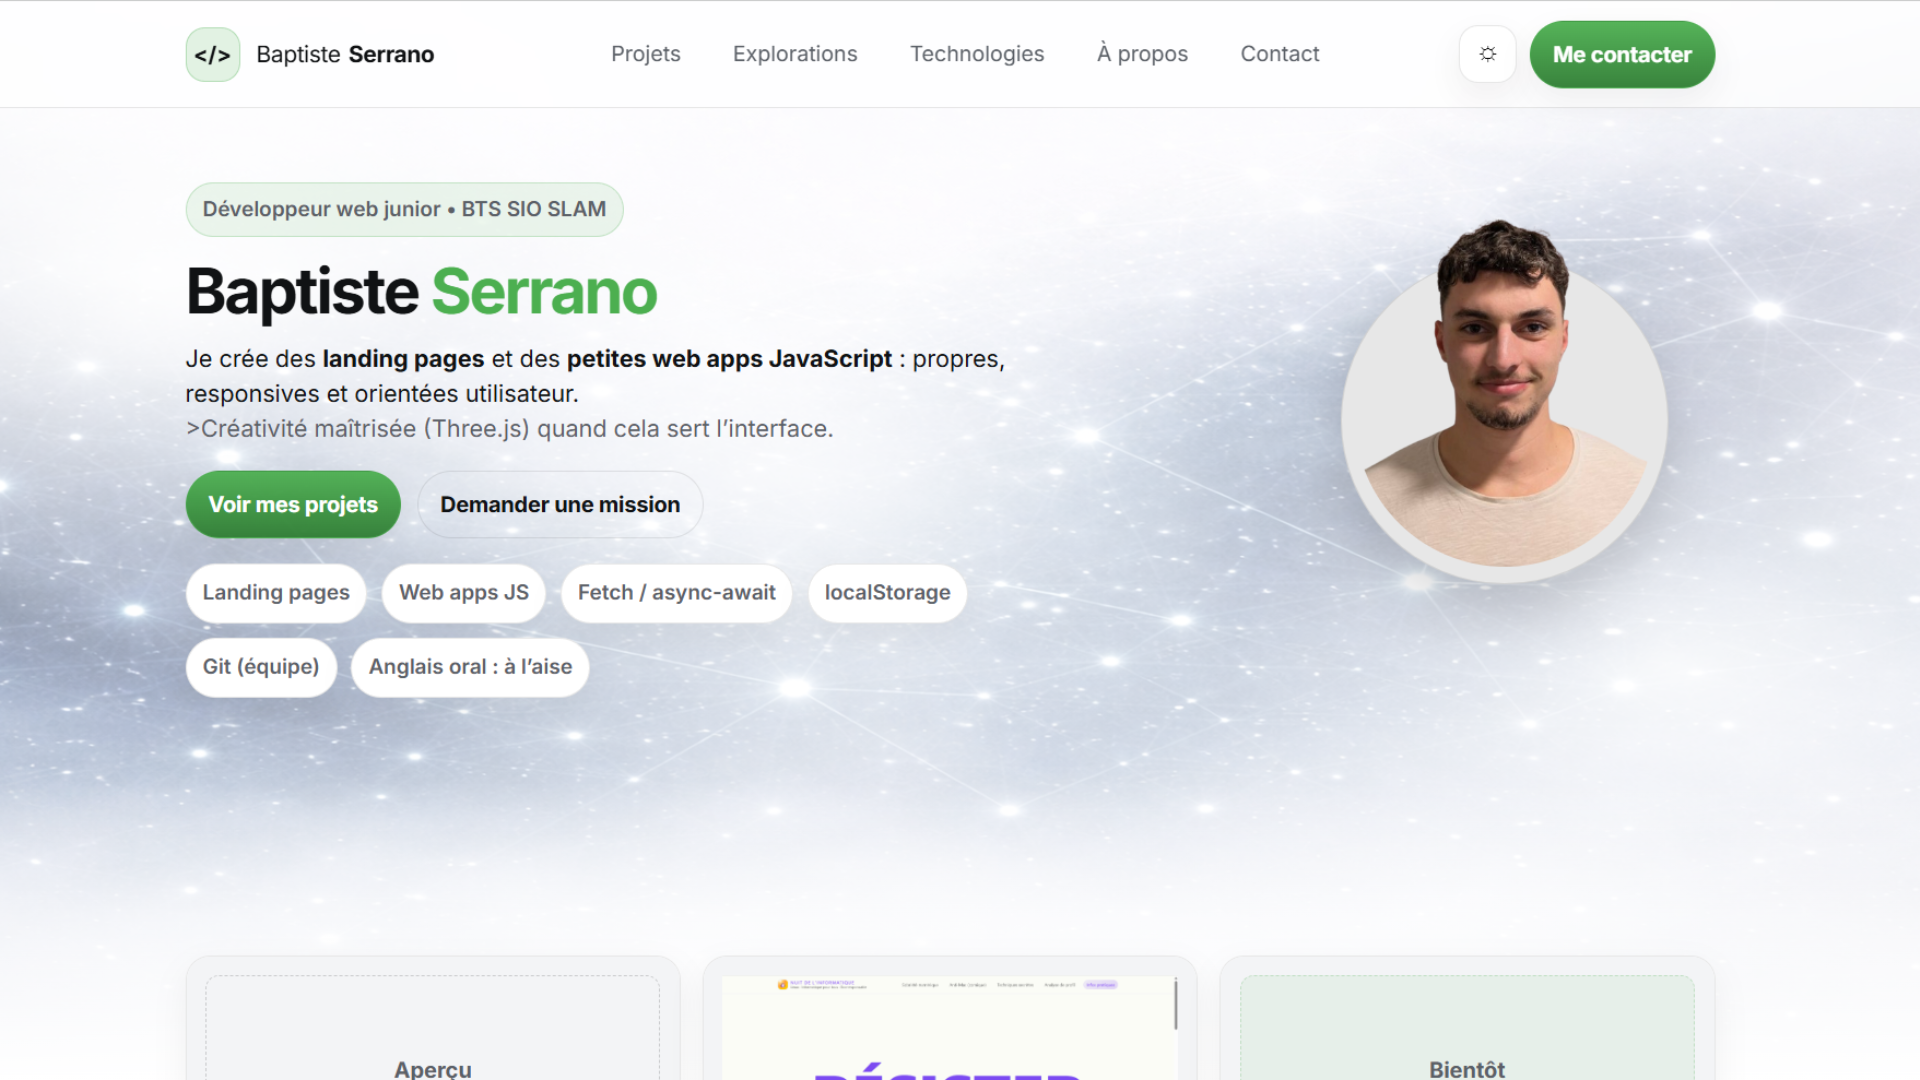
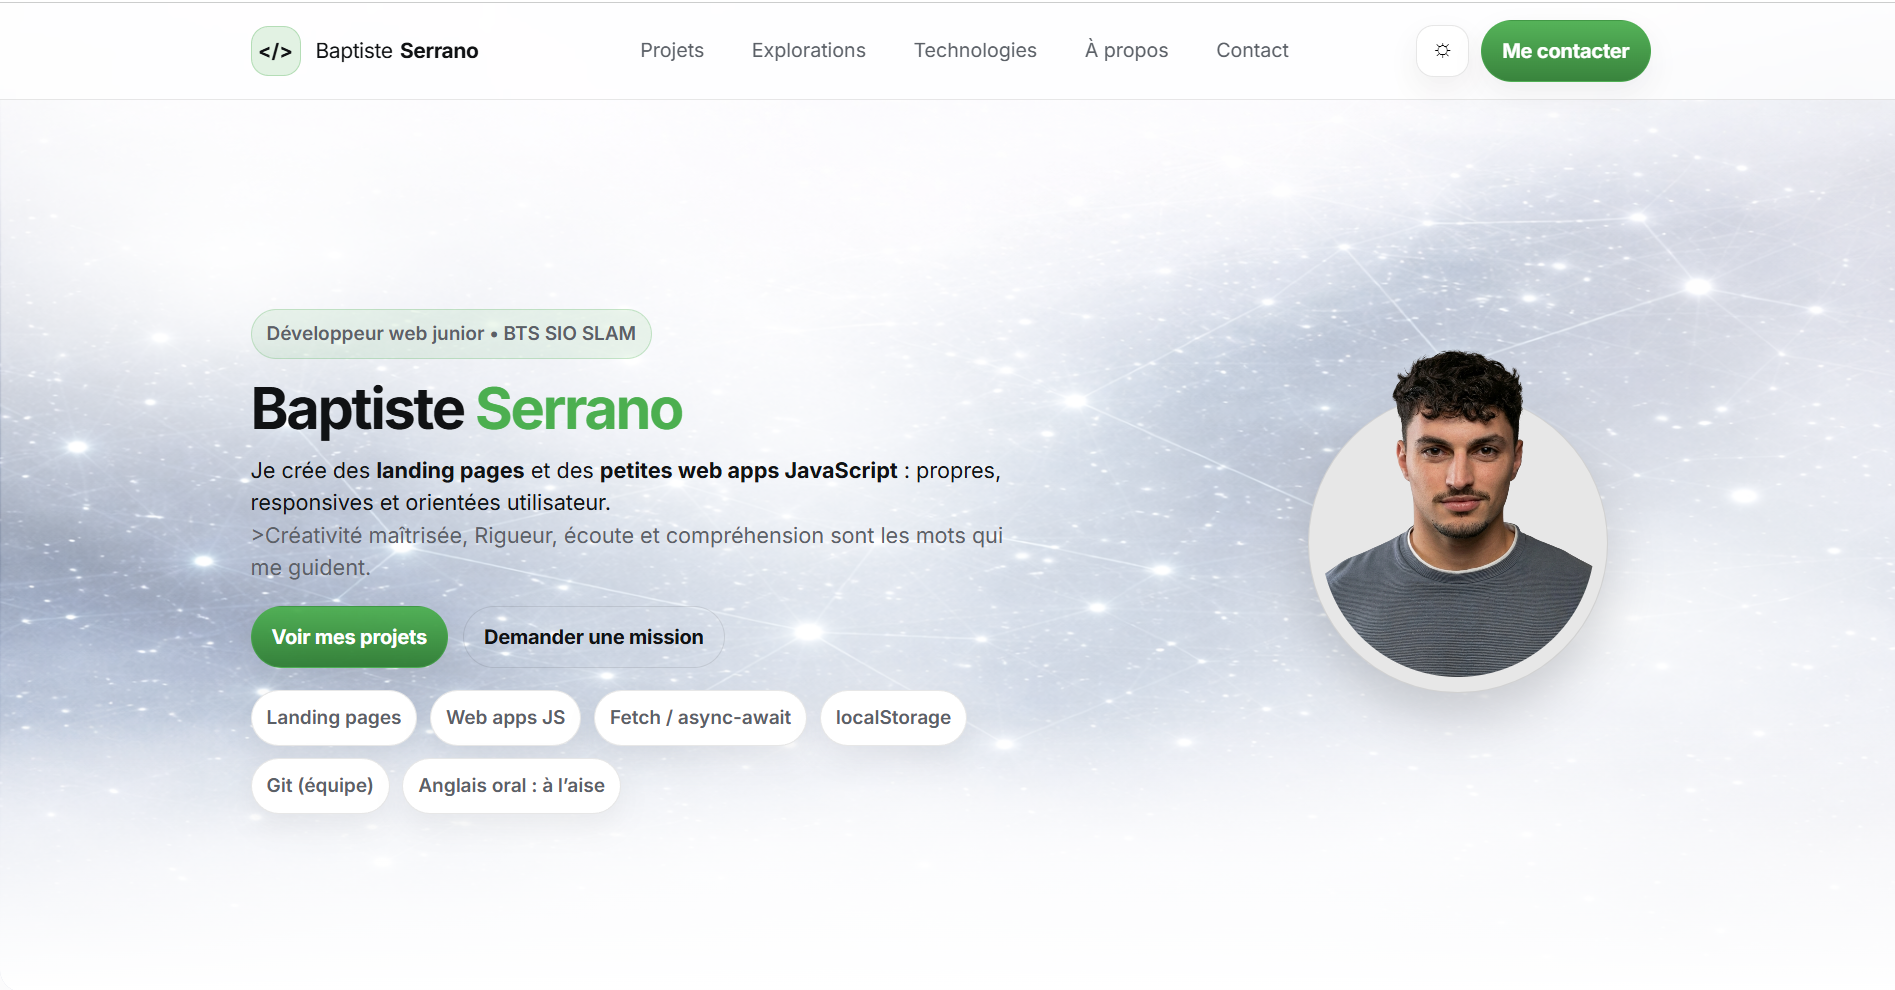
ajout de l'envoie réel d'un mail pour le formulaire

diff --git a/index.html b/index.html
@@ -1,4 +1,4 @@
-<!DOCTYPE html>
+<!doctype html>
 
 <html lang="fr">
   <head>
@@ -51,7 +51,6 @@
         </nav>
 
         <div class="header-actions">
-          <!-- Bouton thème : JS plus tard -->
           <button
             class="icon-btn"
             type="button"
@@ -97,8 +96,8 @@
 
             <p class="lead z-index-10">
               Je crée des <strong>web apps JavaScript</strong> et des
-              <strong>solution logicielles</strong> : propres,
-              responsives et orientées utilisateur.
+              <strong>solution logicielles</strong> : propres, responsives et
+              orientées utilisateur.
               <br />
               <span class="muted z-index-10">
                 >Créativité maîtrisée, rigueur, écoute et compréhension sont les
@@ -226,9 +225,7 @@
               </div>
               <div class="card-body z-index-10">
                 <h3>Bientôt : un SAS</h3>
-                <p class="muted z-index-10">
-                  Une SAS pensé pour motiver.
-                </p>
+                <p class="muted z-index-10">Une SAS pensé pour motiver.</p>
 
                 <div class="tags z-index-10">
                   <span class="tag z-index-10">Web app JS</span>
@@ -318,9 +315,10 @@
           <header class="section-head">
             <h2>À propos</h2>
             <p class="sub">
-              Autodidacte, puis étudiant, j’apprends en construisant et en itérant. Je cherche
-              une progression solide vers le monde de l'entrepeunariat, avec une trajectoire
-              long terme vers la cybersécurité.
+              Autodidacte, puis étudiant, j’apprends en construisant et en
+              itérant. Je cherche une progression solide vers le monde de
+              l'entrepeunariat, avec une trajectoire long terme vers la
+              cybersécurité.
             </p>
           </header>
 
@@ -343,9 +341,8 @@
             <div class="card about-card">
               <h3>Ce que je cherche</h3>
               <p class="muted">
-                Des missions concrètes et des
-                projets où je peux apprendre vite, livrer proprement, et
-                progresser.
+                Des missions concrètes et des projets où je peux apprendre vite,
+                livrer proprement, et progresser.
               </p>
               <div class="about-badges">
                 <span class="badge">Curieux</span>
@@ -369,7 +366,18 @@
           </header>
 
           <div class="contact-grid">
-            <form class="card form" action="#" method="post">
+            <form
+              class="card form"
+              action="https://formsubmit.co/baptiste.ser09@gmail.com"
+              method="POST"
+            >
+              <input type="hidden" name="_captcha" value="false" />
+              <input
+                type="hidden"
+                name="_subject"
+                value="Nouveau message depuis le portfolio"
+              />
+              <input type="hidden" name="_template" value="table" />
               <div class="field">
                 <label for="name">Nom</label>
                 <input
@@ -449,7 +457,6 @@
               </ul>
 
               <div class="divider"></div>
-
             </aside>
           </div>
         </div>
@@ -464,5 +471,89 @@
         <a class="muted" href="#top">Retour en haut</a>
       </div>
     </footer>
+    <div class="toast" id="toast">
+      <div class="toast-content">
+        <span class="toast-icon">✓</span>
+        <div class="toast-text">
+          <strong>Message envoyé</strong>
+          <p>
+            Merci, ton message a bien été envoyé. Je te répondrai dès que
+            possible.
+          </p>
+        </div>
+        <button class="toast-close" id="toastClose" aria-label="Fermer">
+          ×
+        </button>
+      </div>
+    </div>
+    <script>
+      const form = document.getElementById("contactForm");
+      const toast = document.getElementById("toast");
+      const toastClose = document.getElementById("toastClose");
+      const formStatus = document.getElementById("formStatus");
+
+      let toastTimeout;
+
+      function showToast(message, isError = false) {
+        const title = toast.querySelector(".toast-text strong");
+        const text = toast.querySelector(".toast-text p");
+        const icon = toast.querySelector(".toast-icon");
+
+        if (isError) {
+          title.textContent = "Erreur";
+          text.textContent = message;
+          icon.textContent = "!";
+          icon.style.background = "linear-gradient(135deg, #ef4444, #dc2626)";
+        } else {
+          title.textContent = "Message envoyé";
+          text.textContent = message;
+          icon.textContent = "✓";
+          icon.style.background = "linear-gradient(135deg, #22c55e, #16a34a)";
+        }
+
+        toast.classList.add("show");
+
+        clearTimeout(toastTimeout);
+        toastTimeout = setTimeout(() => {
+          toast.classList.remove("show");
+        }, 4500);
+      }
+
+      toastClose.addEventListener("click", () => {
+        toast.classList.remove("show");
+      });
+
+      form.addEventListener("submit", async (e) => {
+        e.preventDefault();
+
+        formStatus.textContent = "Envoi en cours...";
+
+        const formData = new FormData(form);
+
+        try {
+          const response = await fetch(form.action, {
+            method: "POST",
+            body: formData,
+            headers: {
+              Accept: "application/json",
+            },
+          });
+
+          if (response.ok) {
+            form.reset();
+            formStatus.textContent = "";
+            showToast(
+              "Merci, ton message a bien été envoyé. Je te répondrai dès que possible.",
+            );
+          } else {
+            formStatus.textContent = "";
+            showToast("L’envoi a échoué. Réessaie dans un instant.", true);
+          }
+        } catch (error) {
+          formStatus.textContent = "";
+          showToast("Impossible d’envoyer le message pour le moment.", true);
+        }
+      });
+    </script>
   </body>
 </html>

diff --git a/css/base.css b/css/base.css
@@ -3,7 +3,8 @@
    ========================= */
 
 :root {
-  --font: "Inter", system-ui, -apple-system, Segoe UI, Roboto, Arial, sans-serif;
+  --font:
+    "Inter", system-ui, -apple-system, Segoe UI, Roboto, Arial, sans-serif;
 
   /* Accent (vert propre, proche de ton CV) */
   --accent: #4caf50;
@@ -62,7 +63,8 @@ body {
   margin: 0;
   font-family: var(--font);
   color: var(--text);
-  background: radial-gradient(
+  background:
+    radial-gradient(
       1200px 600px at 75% 10%,
       rgba(76, 175, 80, 0.1),
       transparent 55%
@@ -289,7 +291,10 @@ body[data-theme="dark"] .nav a:hover {
   font-weight: 650;
   letter-spacing: -0.01em;
   box-shadow: var(--shadow-soft);
-  transition: transform 120ms ease, box-shadow 120ms ease, background 120ms ease;
+  transition:
+    transform 120ms ease,
+    box-shadow 120ms ease,
+    background 120ms ease;
 }
 .btn:hover {
   transform: translateY(-1px);
@@ -427,7 +432,8 @@ body[data-theme="dark"] .nav a:hover {
   height: 280px;
   border-radius: calc(var(--radius) - 8px);
   overflow: hidden;
-  background: radial-gradient(
+  background:
+    radial-gradient(
       700px 320px at 30% 10%,
       rgba(76, 175, 80, 0.18),
       transparent 55%
@@ -444,19 +450,24 @@ body[data-theme="dark"] .nav a:hover {
 .grid-glow {
   position: absolute;
   inset: 0;
-  background-image: linear-gradient(
+  background-image:
+    linear-gradient(
       to right,
       rgba(255, 255, 255, 0) 0%,
       rgba(255, 255, 255, 0) 100%
     ),
     linear-gradient(rgba(16, 18, 20, 0.06) 1px, transparent 1px),
     linear-gradient(90deg, rgba(16, 18, 20, 0.06) 1px, transparent 1px);
-  background-size: 100% 100%, 34px 34px, 34px 34px;
+  background-size:
+    100% 100%,
+    34px 34px,
+    34px 34px;
   opacity: 0.9;
   mix-blend-mode: multiply;
 }
 body[data-theme="dark"] .grid-glow {
-  background-image: linear-gradient(
+  background-image:
+    linear-gradient(
       to right,
       rgba(255, 255, 255, 0) 0%,
       rgba(255, 255, 255, 0) 100%
@@ -881,7 +892,8 @@ textarea:focus {
   inset: 0;
   pointer-events: none;
 
-  background: radial-gradient(
+  background:
+    radial-gradient(
       820px 460px at 12% 26%,
       rgba(255, 255, 255, 0.92),
       transparent 62%
@@ -939,4 +951,92 @@ textarea:focus {
   overflow: hidden;
   background: #f2f3f5;
   border: 1px solid rgba(16, 18, 20, 0.08);
+}
+
+.toast {
+  position: fixed;
+  top: 24px;
+  right: 24px;
+  z-index: 9999;
+  opacity: 0;
+  transform: translateY(-20px) scale(0.98);
+  pointer-events: none;
+  transition:
+    opacity 0.35s ease,
+    transform 0.35s ease;
+}
+
+.toast.show {
+  opacity: 1;
+  transform: translateY(0) scale(1);
+  pointer-events: auto;
+}
+
+.toast-content {
+  display: flex;
+  align-items: flex-start;
+  gap: 14px;
+  min-width: 320px;
+  max-width: 420px;
+  padding: 16px 18px;
+  border-radius: 18px;
+  background: rgba(18, 18, 18, 0.92);
+  color: #fff;
+  box-shadow: 0 16px 40px rgba(0, 0, 0, 0.28);
+  backdrop-filter: blur(10px);
+  border: 1px solid rgba(255, 255, 255, 0.08);
+}
+
+.toast-icon {
+  display: flex;
+  align-items: center;
+  justify-content: center;
+  min-width: 36px;
+  width: 36px;
+  height: 36px;
+  border-radius: 999px;
+  font-weight: 700;
+  background: linear-gradient(135deg, #22c55e, #16a34a);
+  color: white;
+}
+
+.toast-text strong {
+  display: block;
+  margin-bottom: 4px;
+  font-size: 0.98rem;
+}
+
+.toast-text p {
+  margin: 0;
+  font-size: 0.92rem;
+  line-height: 1.45;
+  color: rgba(255, 255, 255, 0.82);
+}
+
+.toast-close {
+  margin-left: auto;
+  border: none;
+  background: transparent;
+  color: rgba(255, 255, 255, 0.75);
+  font-size: 1.4rem;
+  cursor: pointer;
+  line-height: 1;
+}
+
+.toast-close:hover {
+  color: white;
+}
+
+@media (max-width: 640px) {
+  .toast {
+    top: 16px;
+    right: 16px;
+    left: 16px;
+  }
+
+  .toast-content {
+    min-width: auto;
+    max-width: none;
+    width: 100%;
+  }
 }
